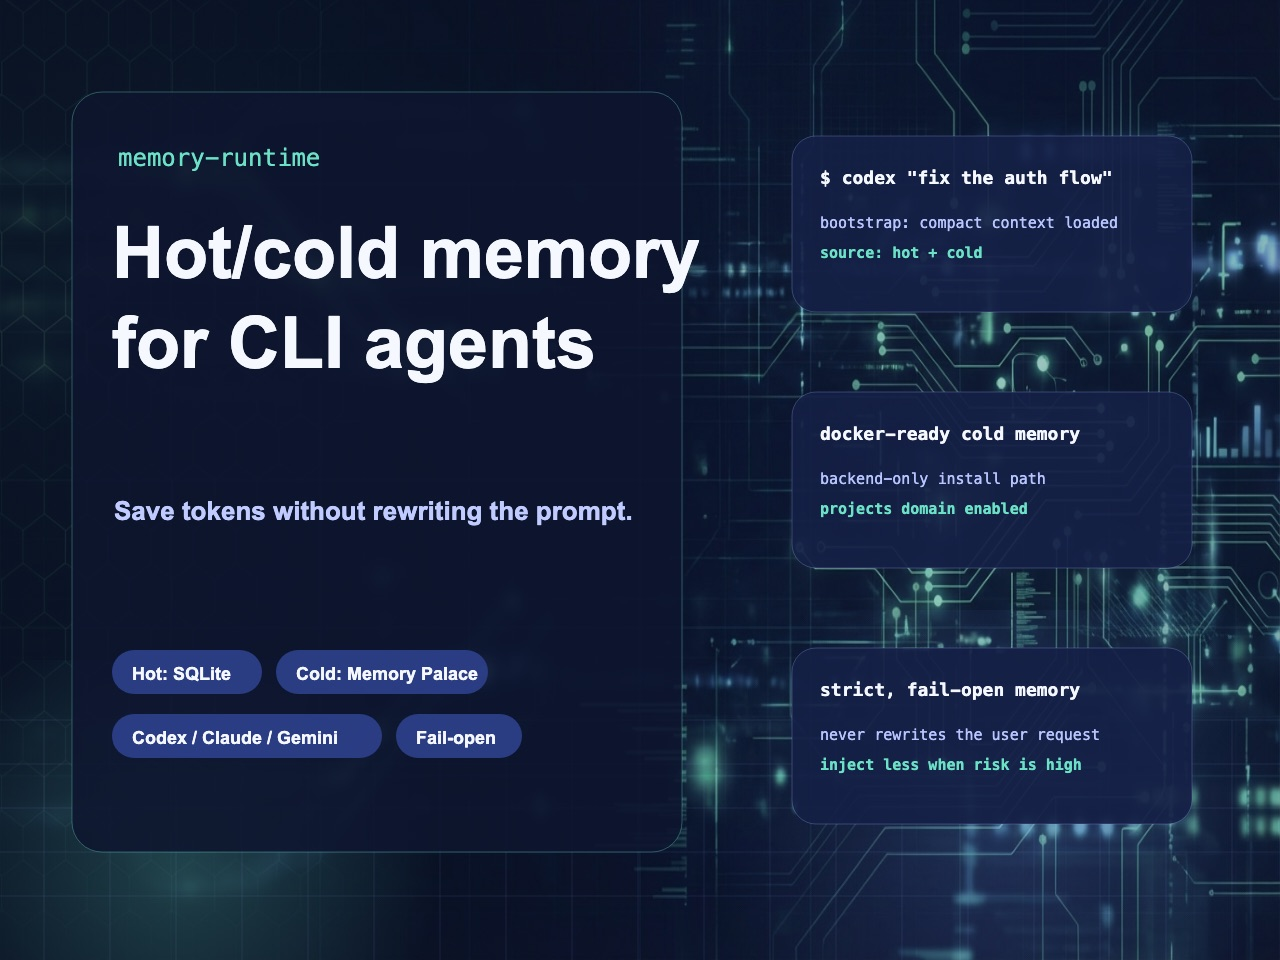
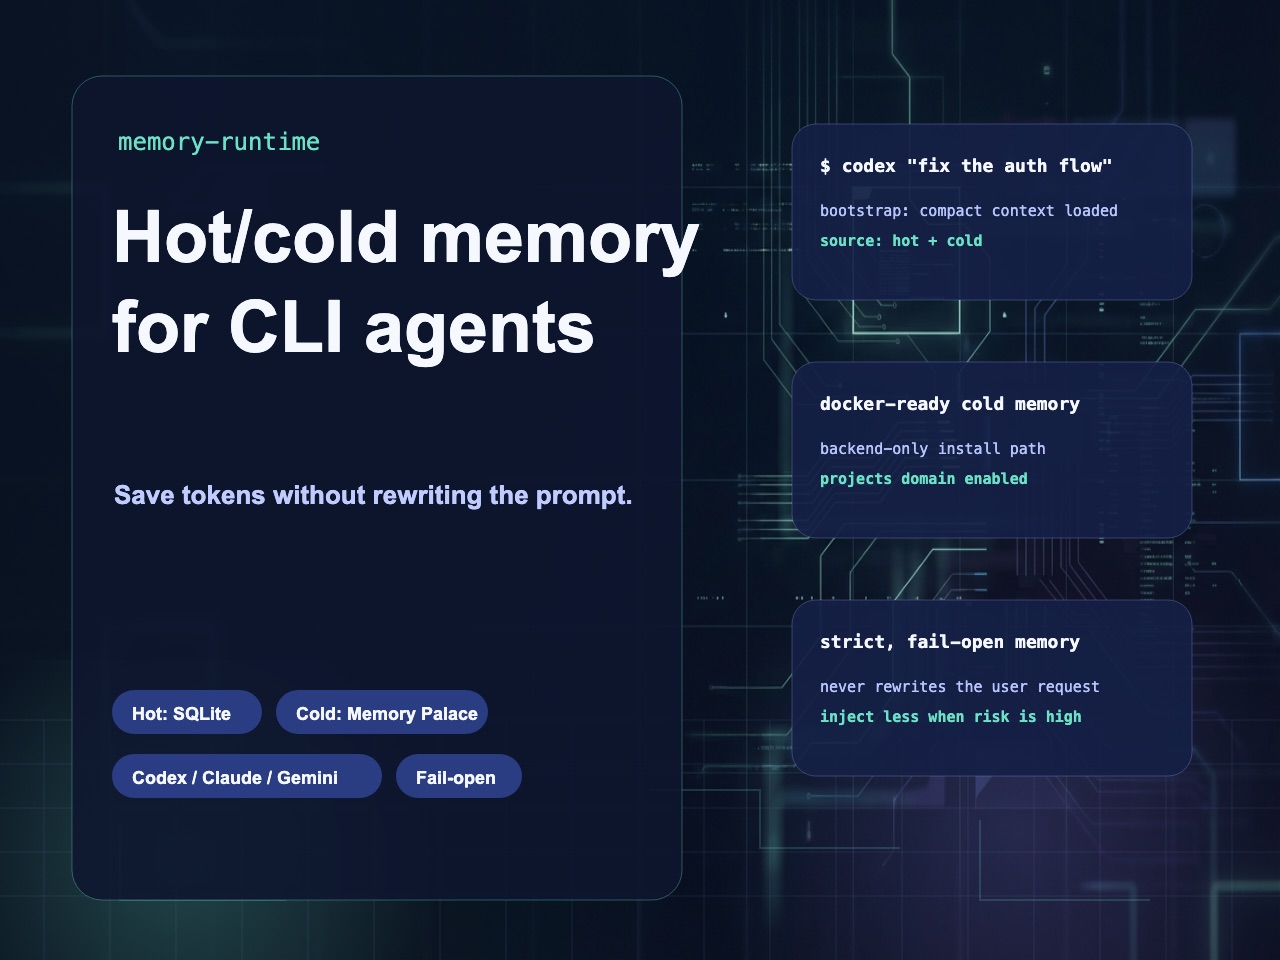
fix(repo): refine 4x3 social preview artwork

diff --git a/assets/social-preview-render-4x3.html b/assets/social-preview-render-4x3.html
@@ -91,35 +91,56 @@
             ctx.stroke();
           }
 
-          roundRect(72, 92, 610, 760, 30, 'rgba(14, 22, 47, 0.88)', 'rgba(107, 225, 198, 0.34)');
+          ctx.strokeStyle = 'rgba(107,225,198,0.18)';
+          ctx.lineWidth = 2;
+          ctx.beginPath();
+          ctx.moveTo(650, 790);
+          ctx.lineTo(760, 790);
+          ctx.lineTo(760, 848);
+          ctx.lineTo(900, 848);
+          ctx.stroke();
+
+          ctx.beginPath();
+          ctx.moveTo(120, 824);
+          ctx.lineTo(120, 900);
+          ctx.lineTo(286, 900);
+          ctx.stroke();
+
+          ctx.beginPath();
+          ctx.moveTo(980, 820);
+          ctx.lineTo(980, 900);
+          ctx.lineTo(1150, 900);
+          ctx.stroke();
+
+          roundRect(72, 76, 610, 824, 30, 'rgba(14, 22, 47, 0.88)', 'rgba(107, 225, 198, 0.34)');
 
           ctx.fillStyle = '#6be1c6';
           ctx.font = '24px Menlo, ui-monospace, monospace';
-          ctx.fillText('memory-runtime', 118, 166);
+          ctx.fillText('memory-runtime', 118, 150);
 
           ctx.fillStyle = '#f6f8ff';
           ctx.font = '800 72px Arial, Helvetica, sans-serif';
-          ctx.fillText('Hot/cold memory', 112, 278);
-          ctx.fillText('for CLI agents', 112, 368);
+          ctx.fillText('Hot/cold memory', 112, 262);
+          ctx.fillText('for CLI agents', 112, 352);
 
           ctx.fillStyle = '#c0cbff';
           ctx.font = '600 26px Arial, Helvetica, sans-serif';
-          ctx.fillText('Save tokens without rewriting the prompt.', 114, 520);
+          ctx.fillText('Save tokens without rewriting the prompt.', 114, 504);
 
-          pill(112, 650, 'Hot: SQLite', 150);
-          pill(276, 650, 'Cold: Memory Palace', 212);
-          pill(112, 714, 'Codex / Claude / Gemini', 270);
-          pill(396, 714, 'Fail-open', 126);
+          pill(112, 690, 'Hot: SQLite', 150);
+          pill(276, 690, 'Cold: Memory Palace', 212);
+          pill(112, 754, 'Codex / Claude / Gemini', 270);
+          pill(396, 754, 'Fail-open', 126);
 
-          note(792, 136, '$ codex "fix the auth flow"', [
+          note(792, 124, '$ codex "fix the auth flow"', [
             { text: 'bootstrap: compact context loaded' },
             { text: 'source: hot + cold', accent: true },
           ]);
-          note(792, 392, 'docker-ready cold memory', [
+          note(792, 362, 'docker-ready cold memory', [
             { text: 'backend-only install path' },
             { text: 'projects domain enabled', accent: true },
           ]);
-          note(792, 648, 'strict, fail-open memory', [
+          note(792, 600, 'strict, fail-open memory', [
             { text: 'never rewrites the user request' },
             { text: 'inject less when risk is high', accent: true },
           ]);
